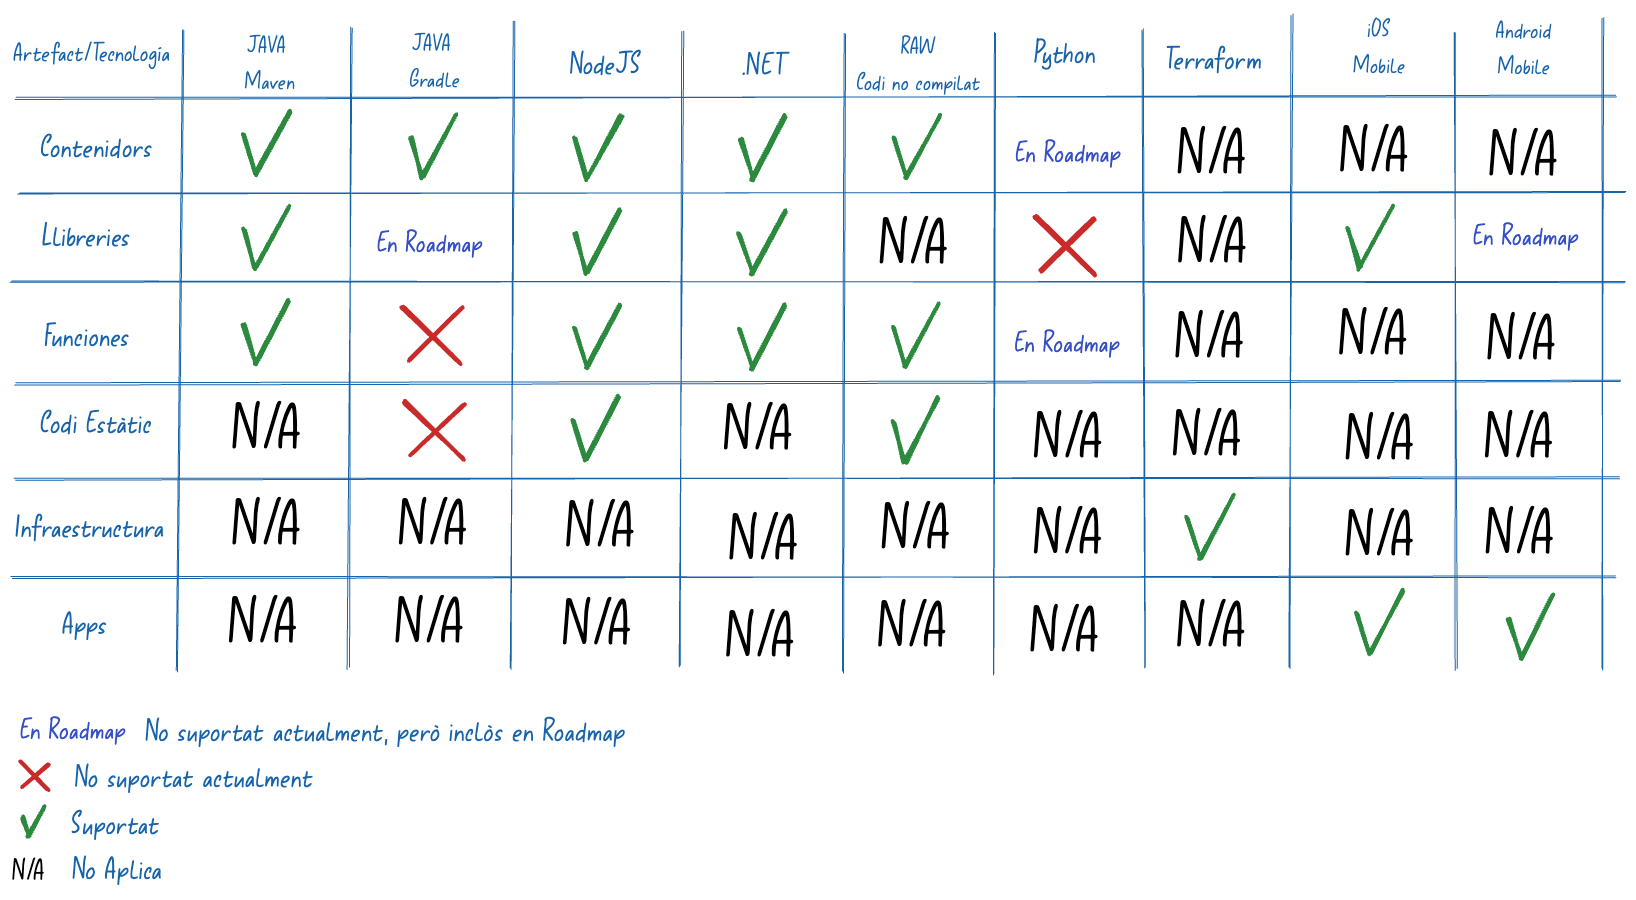
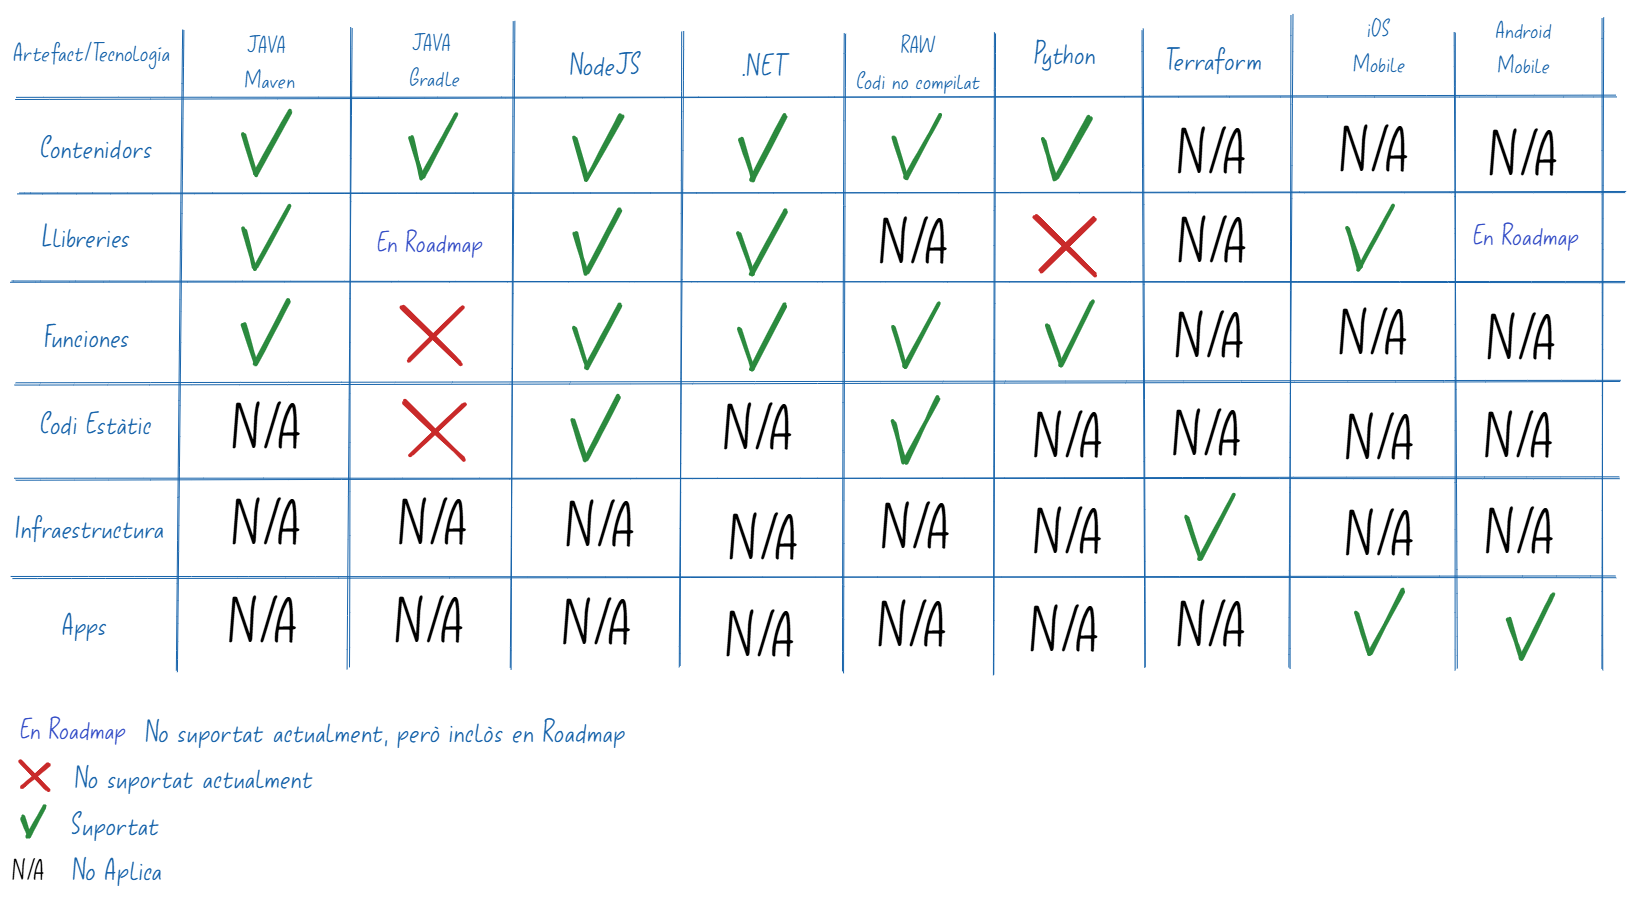
Python documentació

diff --git a/content/plataformes/ghec/workflows/gh-configuracio-workflows.md b/content/plataformes/ghec/workflows/gh-configuracio-workflows.md
@@ -104,6 +104,8 @@ aliases = [
   - `java`
   - `nodejs`
   - `dotnet` **IMPORTANT .Net Framework no està suportat**
+  - `python`
+  - `java-gradle`
 - **project_name**: (opcional) Nom del projecte, especificar només si no hi ha compilació en el projecte.
 - **cloud**: (obligatori) Entorn al núvol. Valors possibles:
   - `aws` (default)
@@ -170,6 +172,8 @@ aliases = [
   - `java`
   - `nodejs`
   - `dotnet` **IMPORTANT .Net Framework no està suportat**
+  - `python`
+  - `java-gradle`
 - **docker_build_context**: (opcional) Context de construcció de Docker. Per defecte és `"."` (l'arrel). Valor per defecte: `"."`
 - **project_name**: (opcional) Nom del projecte, especificar només si no hi ha compilació en el projecte.  En el cas de projectes amb tecnologia .NET i que en el repositori de projecte existeixin mes de dos .csproj, aquesta propietat project_name és obligatòria.
 - **java_version**: (opcional) Versió de Java. Definir només si el projecte es basa en tecnologia Java.
@@ -179,6 +183,8 @@ aliases = [
 - **node_version**: (opcional) Versió de Node. Definir només si el projecte es basa en tecnologia Node.
 - **dotnet_version**: (opcional) Versió de .Net. Definir només si el projecte es basa en tecnologia .Net.
 - **install_build_command**: (opcional) Comanda personalitzada per construir i empaquetar el projecte. El valor per defecte per a nodejs és `"npm ci && npm run build"`, i per a java maven `"mvn package -Dmaven.test.skip=true"`
+- **python_version**: (opcional) Versió de python. Definir només si el projecte es basa en tecnologia python.
+- **gradle_version**: (opcional) Versió de gradle. Definir només si el projecte es basa en tecnologia python.
 - **sonar_exclusions**: (opcional) Exclusió de Sonar. Exemples:
   - `node_modules/**`
   - `test/**`
@@ -200,7 +206,9 @@ uses: ctti-arq/reusable-workflows/.github/workflows/container-ci-on-commit-devel
   - `java`
   - `nodejs`
   - `dotnet` **IMPORTANT .Net Framework no està suportat**
-- **project_name**: (opcional) Nom del projecte, especificar només si no hi ha compilació en el projecte. En el cas de projectes amb tecnologia .NET i que en el repositori de projecte existeixin mes de dos .csproj, aquesta propietat project_name és obligatòria.
+  - `python`
+  - `java-gradle`
+- **project_name**: (opcional) Nom del projecte, especificar només si no hi ha compilació en el projecte. En el cas de projectes amb tecnologia .NET i que en el repositori de projectes hi hagi més de dos .csproj o projectes que no se li especifiqui la tecnologia, aquesta propietat project_name és obligatòria.
 
 **Exemple de crida al workflow:**
 ```yaml
@@ -217,12 +225,16 @@ uses: ctti-arq/reusable-workflows/.github/workflows/container-ci-on-commit-devel
   - `nodejs`
   - `raw`
   - `dotnet` **IMPORTANT .Net Framework no està suportat**
+  - `python`
+  - `java-gradle`
 - **java_version**: (opcional) Versió de Java. Definir només si el projecte es basa en tecnologia Java.
 - **java_distribution**: (opcional) Distribució de Java. Definir només si el projecte es basa en tecnologia Java.
 - **maven_version**: (opcional) Versió de Maven. Definir només si el projecte es basa en tecnologia Java.
 - **sonar_exclusions**: (opcional) Exclusió de Sonar, pot estar buit.
 - **node_version**: (opcional) Versió de Node. Definir només si el projecte es basa en tecnologia Node.
 - **dotnet_version**: (opcional) Versió de .Net. Definir només si el projecte es basa en tecnologia .Net.
+- **python_version**: (opcional) Versió de pythont. Definir només si el projecte es basa en tecnologia python.
+- **gradle_version**: (opcional) Versió de gradle. Definir només si el projecte es basa en tecnologia python.
 - **sonar_exclusions**: (opcional) Exclusió de Sonar. Exemples:
   - `node_modules/**`
   - `test/**`
@@ -233,6 +245,14 @@ uses: ctti-arq/reusable-workflows/.github/workflows/container-ci-on-commit-devel
 - **dependabot**: (opcional) Activació de Dependabot.
   Valor per defecte: true.
 - **project_name**: (opcional) Nom del projecte, especificar només si no hi ha compilació en el projecte. En el cas de projectes amb tecnologia .NET i que en el repositori de projecte existeixin mes de dos .csproj, aquesta propietat project_name és obligatòria.
+- **install_build_command**: (opcional) Comanda personalitzada per construir i empaquetar el projecte. El valor per defecte per a nodejs és `"npm ci && npm run build"`, per a java maven `"mvn package -Dmaven.test.skip=true"`, per a java gradle `"gradle clean build"`, per a dotnet `"dotnet restore $PROJECT_PATH && dotnet build $PROJECT_PATH --configuration Release && dotnet publish $PROJECT_PATH --configuration Release --output ./out"`, i per a python `"pip install -r requirements.txt && python setup.py sdist bdist_wheel"`. Si no es proporciona cap comanda personalitzada, es farà servir la comanda per defecte segons la tecnologia especificada.
+- **custom_test_command**:(opcional) Comanda personalitzada per realitzar les proves al projecte. Els valors per defecte són els següents segons la tecnologia:
+
+  - **java/java-maven**: `"mvn surefire:test"`
+  - **java-gradle**: `"gradle test"`
+  - **nodejs**: `"npm test"`
+  - **dotnet**: `"dotnet test $TEST_PROJECT_PATH --configuration Release"`
+  - **python**: `"pytest tests/"`
 
 **Exemple de crida al workflow:**
 ```yaml
@@ -252,6 +272,7 @@ uses: ctti-arq/reusable-workflows/.github/workflows/container-ci-on-commit-devel
   - `java`
   - `nodejs`
   - `dotnet` **IMPORTANT .Net Framework no està suportat**
+  - `python`
 - **project_name**: (opcional) Nom del projecte, especificar només si no hi ha compilació en el projecte.
 - **cloud**: Entorn al núvol. Valors possibles:
   - `aws` (default)
@@ -313,6 +334,7 @@ uses: ctti-arq/reusable-workflows/.github/workflows/container-ci-on-commit-devel
   - `java`
   - `nodejs`
   - `dotnet` **IMPORTANT .Net Framework no està suportat**
+  - `python`
 - **project_name**: (opcional) Nom del projecte, especificar només si no hi ha compilació en el projecte. En el cas de projectes amb tecnologia .NET i que en el repositori de projecte existeixin mes de dos .csproj, aquesta propietat project_name és obligatòria.
 - **java_version**: (opcional) Versió de Java. Definir només si el projecte es basa en tecnologia Java.
 - **java_distribution**: (opcional) Distribució de Java. Definir només si el projecte es basa en tecnologia Java.
@@ -320,7 +342,8 @@ uses: ctti-arq/reusable-workflows/.github/workflows/container-ci-on-commit-devel
 - **sonar_exclusions**: (opcional) Exclusió de Sonar, pot estar buit.
 - **node_version**: (opcional) Versió de Node. Definir només si el projecte es basa en tecnologia Node.
 - **dotnet_version**: (opcional) Versió de .Net. Definir només si el projecte es basa en tecnologia .Net.
-- **install_build_command**: (opcional) Comanda personalitzada per construir i empaquetar el projecte. El valor per defecte per a nodejs és `"npm ci && npm run build"`, i per a java maven `"mvn package -Dmaven.test.skip=true"`
+- **python_version**: (opcional) Versió de pythont. Definir només si el projecte es basa en tecnologia python.
+- **install_build_command**: (opcional) Comanda personalitzada per construir i empaquetar el projecte. El valor per defecte per a nodejs és `"npm ci && npm run build"`, per a java maven `"mvn package -Dmaven.test.skip=true"`, per a java gradle `"gradle clean build"`, per a dotnet `"dotnet restore $PROJECT_PATH && dotnet build $PROJECT_PATH --configuration Release && dotnet publish $PROJECT_PATH --configuration Release --output ./out"`, i per a python `"pip install -r requirements.txt && python setup.py sdist bdist_wheel"`. Si no es proporciona cap comanda personalitzada, es farà servir la comanda per defecte segons la tecnologia especificada.
 - **sonar_exclusions**: (opcional) Exclusió de Sonar. Exemples:
   - `node_modules/**`
   - `test/**`
@@ -342,12 +365,14 @@ uses: ctti-arq/reusable-workflows/.github/workflows/container-ci-on-commit-devel
   - `java`
   - `nodejs`
   - `dotnet` **IMPORTANT .Net Framework no està suportat**
+  - `python`
 - **java_version**: (opcional) Versió de Java. Definir només si el projecte es basa en tecnologia Java.
 - **java_distribution**: (opcional) Distribució de Java. Definir només si el projecte es basa en tecnologia Java.
 - **maven_version**: (opcional) Versió de Maven. Definir només si el projecte es basa en tecnologia Java.
 - **sonar_exclusions**: (opcional) Exclusió de Sonar, pot estar buit.
 - **node_version**: (opcional) Versió de Node. Definir només si el projecte es basa en tecnologia Node.
 - **dotnet_version**: (opcional) Versió de .Net. Definir només si el projecte es basa en tecnologia .Net.
+- **python_version**: (opcional) Versió de pythont. Definir només si el projecte es basa en tecnologia python.
 - **sonar_exclusions**: (opcional) Exclusió de Sonar. Exemples:
   - `node_modules/**`
   - `test/**`
@@ -355,6 +380,13 @@ uses: ctti-arq/reusable-workflows/.github/workflows/container-ci-on-commit-devel
 - **sonarqube**: (opcional) Indica si s'ha d'integrar SonarQube en el procés d'integració contínua. Valor per defecte: true.
 - **dependabot**: (opcional) Permet activar o desactivar la funcionalitat de Dependabot en el workflow. Valor per defecte: true.
 - **project_name**: (opcional) Nom del projecte, especificar només si no hi ha compilació en el projecte. En el cas de projectes amb tecnologia .NET i que en el repositori de projecte existeixin mes de dos .csproj, aquesta propietat project_name és obligatòria.
+- **install_build_command**: (opcional) Comanda personalitzada per construir i empaquetar el projecte. El valor per defecte per a nodejs és `"npm ci"`, per a java `"mvn clean compile"`, per a dotnet `"dotnet restore $PROJECT_PATH && dotnet build $PROJECT_PATH --configuration Release"`, i per a python `" pip install -r requirements.txt"`. Si no es proporciona cap comanda personalitzada, es farà servir la comanda per defecte segons la tecnologia especificada.
+**custom_test_command**:(opcional) Comanda personalitzada per realitzar les proves al projecte. Els valors per defecte són els següents segons la tecnologia:
+
+  - **java/java-maven**: `"mvn surefire:test"`
+  - **nodejs**: `"npm test"`
+  - **dotnet**: `"dotnet test $TEST_PROJECT_PATH --configuration Release"`
+  - **python**: `"pytest tests/"`
 
 **Exemple de crida al workflow:**
 ```yaml
@@ -468,6 +500,10 @@ uses: ctti-arq/reusable-workflows/.github/workflows/container-ci-on-commit-devel
 - **sonarqube**: (opcional) Habilita la integració amb SonarQube. Valor per defecte: true.
 - **dependabot**: (opcional) Activa o desactiva l'ús de Dependabot
   Valor per defecte: true.
+- **install_build_command**: (opcional) Comanda personalitzada per construir i empaquetar el projecte. El valor per defecte per a nodejs és `"npm ci"`. Si no es proporciona cap comanda personalitzada, es farà servir la comanda per defecte segons la tecnologia especificada.
+- **custom_test_command**:(opcional) Comanda personalitzada per realitzar les proves al projecte. Els valors per defecte són els següents segons la tecnologia:
+
+  - **nodejs**: `"npm test"`
 
 **Exemple de crida al workflow:**
 ```yaml
@@ -487,12 +523,14 @@ uses: ctti-arq/reusable-workflows/.github/workflows/container-ci-on-commit-devel
   - `java`
   - `nodejs`
   - `dotnet` **IMPORTANT .Net Framework no està suportat**
+  - `java-gradle`
 - **java_version**: (opcional) Versió de Java. Definir només si el projecte es basa en tecnologia Java.
 - **java_distribution**: (opcional) Distribució de Java. Definir només si el projecte es basa en tecnologia Java.
 - **maven_version**: (opcional) Versió de Maven. Definir només si el projecte es basa en tecnologia Java.
 - **sonar_exclusions**: (opcional) Exclusió de Sonar, pot estar buit.
 - **node_version**: (opcional) Versió de Node. Definir només si el projecte es basa en tecnologia Node.
 - **dotnet_version**: (opcional) Versió de .Net. Definir només si el projecte es basa en tecnologia .Net.
+- **gradle_version**: (opcional) Versió de gradle. Definir només si el projecte es basa en tecnologia python.
 - **install_build_command**: (opcional) Comanda personalitzada per construir i empaquetar el projecte. El valor per defecte per a nodejs és `"npm ci && npm run build"`, i per a java maven `"mvn package -Dmaven.test.skip=true"`
 - **sonar_exclusions**: (opcional) Exclusió de Sonar. Exemples:
   - `node_modules/**`
@@ -518,12 +556,14 @@ uses: ctti-arq/reusable-workflows/.github/workflows/container-ci-on-commit-devel
   - `java`
   - `nodejs`
   - `dotnet` **IMPORTANT .Net Framework no està suportat**
+  - `java-gradle`
 - **java_version**: (opcional) Versió de Java. Definir només si el projecte es basa en tecnologia Java.
 - **java_distribution**: (opcional) Distribució de Java. Definir només si el projecte es basa en tecnologia Java.
 - **maven_version**: (opcional) Versió de Maven. Definir només si el projecte es basa en tecnologia Java.
 - **sonar_exclusions**: (opcional) Exclusió de Sonar, pot estar buit.
 - **node_version**: (opcional) Versió de Node. Definir només si el projecte es basa en tecnologia Node.
 - **dotnet_version**: (opcional) Versió de .Net. Definir només si el projecte es basa en tecnologia .Net.
+- **gradle_version**: (opcional) Versió de gradle. Definir només si el projecte es basa en tecnologia python.
 - **sonar_exclusions**: (opcional) Exclusió de Sonar. Exemples:
   - `node_modules/**`
   - `test/**`
@@ -531,6 +571,13 @@ uses: ctti-arq/reusable-workflows/.github/workflows/container-ci-on-commit-devel
 - **dependabot**: (opcional) Indica si s'ha de permetre l'ús de Dependabot. Valor per defecte: true.
 - **unit_test**: (opcional) Realització de proves unitàries. Valor per defecte: false.
 - **project_name**: (opcional) Nom del projecte, especificar només si no hi ha compilació en el projecte. En el cas de projectes amb tecnologia .NET i que en el repositori de projecte existeixin mes de dos .csproj, aquesta propietat project_name és obligatòria.
+- **install_build_command**: (opcional) Comanda personalitzada per construir i empaquetar el projecte. El valor per defecte per a nodejs és `"npm ci"`, per a java maven `"mvn clean compile"`, per a java gradle `"gradle clean build"`, per a dotnet `"dotnet build $PROJECT_PATH -c Release"`. Si no es proporciona cap comanda personalitzada, es farà servir la comanda per defecte segons la tecnologia especificada.
+- **custom_test_command**:(opcional) Comanda personalitzada per realitzar les proves al projecte. Els valors per defecte són els següents segons la tecnologia:
+
+  - **java/java-maven**: `"mvn surefire:test"`
+  - **java-gradle**: `"gradle test"`
+  - **nodejs**: `"npm test"`
+  - **dotnet**: `"dotnet test $TEST_PROJECT_PATH --configuration Release"`
 
 **Exemple de crida al workflow:**
 ```yaml

diff --git a/content/plataformes/ghec/gh-capacitat-tecnologiques.md b/content/plataformes/ghec/gh-capacitat-tecnologiques.md
@@ -1,13 +1,14 @@
 
 +++
 date         = "2024-11-20"
-title        = "Tecnologies suportades"
+title        = "Tecnologies suportades i Requisits"
 description  = "Capacitats tecnològiques de la plataforma GitHub Enterprise Cloud (GHEC)"
 weight      = "4"
 sections    = ["GHEC"]
 aliases = [
     "/drafts/ghec/gh-capacitat-tecnologiques",
-    "/ghec/gh-capacitat-tecnologiques"
+    "/ghec/gh-capacitat-tecnologiques",
+    "/plataformes/ghec/gh-capacitat-tecnologiques"
 ]
 +++
 
@@ -72,4 +73,96 @@ Les tecnlogies certificades actualment són les següents:
 
 Més informació sobre desplegaments estesos : [Desplegaments Estesos](../gh-desplegaments-estesos/)
 
+## Requisits
 
+Addicionalment, dins la política de versions implantada, es detallen els requisits necessaris de configuració, depenent de la tecnologia.
+Respecte al versionat de l' artefacte, el nom del lliurable i la seva version s' obté automàticament dels fitxers de configuració del projecte.  Aquest dependrà del tipus de tecnologia.
+
+
+### JAVA (Maven)
+
+* **Versionat**
+   * Fitxer : pom.xml
+   * Nom Lliurable : Tag artifactid
+   * Versió Lliurable : Tag version
+
+* **Requisists**
+   Per a projectes Maven cal definir en el `pom.xml` la següent dependència per fer l'escaneig amb SonarQube:
+   ```
+   <plugin>
+    <groupId>org.sonarsource.scanner.maven</groupId>
+    <artifactId>sonar-maven-plugin</artifactId>
+    <version>3.4.0.905</version>
+    </plugin>
+   ```
+    
+### JAVA (Gradle)
+* **Versionat**
+   * Fitxer / Nom Lliurable : settings.gradle / Camp -  rootProject.name 
+   * Fitxer / Versió Lliurable :  build.gradle / Camp -  version i Camp -  group
+
+* **Requisits**
+   Per a projectes Maven cal definir en el `build.gradle` la següent dependència per fer l'escaneig amb SonarQube:
+   ```
+   plugins {
+    id 'org.sonarqube' version '5.1.0.4882'
+   }
+   ```
+   I per publicar una biblioteca:
+   ```
+   plugins {
+    id 'maven-publish'
+   }
+   ```
+    
+### NODE
+* **Versionat**
+   * Fitxer : package.json
+   * Nom Lliurable :  name
+   * Versió Lliurable : version
+
+### .NET
+* **Versionat**
+En aquest cas hi ha dues casuistiques :        
+       
+   * Nom Lliurable :
+        1. Si només hi ha un unic projecte, només hi ha un **.csproj** i s'obtindra del camp **name** d'aquest fitxer.
+        2. Si tenim en el repo més d'un projecte, hi ha diferents .csproj, s'obté de la variable **Project_Name** el valor del qual s'introdueix en el setup del projecte.
+
+
+   * Versió Lliurable : 
+        1. Si només hi ha un unic projecte, només hi ha un **.csproj** i s'obtindra del camp **version** d'aquest fitxer 
+        2. Si tenim en el repo més d'un projecte, hi ha diferents .csproj, després hi hauria d'haver un fitxer centralitzat de versions anomenat **Directory.Build.props** i d'aquí s'obtindre del camp **VERSION**.
+
+* **Requisits**
+    Per a projectes on la tecnologia sigui dotnet és necessària l'existència de l'arxiu `*.csproj` a l'arrel. Si existeixen dos arxius `*.csproj` serà obligatori especificar el `Project_Name`.
+
+### APIM
+* **Versionat**
+   * Fitxer : product.yaml
+   * Nom Lliurable : title
+   * Versió Lliurable : version
+
+* **Requisits**
+   Els fitxers de producte i d'APIs han d'estar a l'arrel del repositori i no poden incloure la versió en el nom.
+
+### PYTHON
+* **Versionat** 
+   * Fitxer : setup.py
+   * Nom Lliurable : name
+   * Versió Lliurable : version
+
+* **Requisits**
+   Per a projectes Python és necessari que a l'arrel del repositori existeixin els fitxers de configuració `setup.py` i `requirements.txt`.
+
+### Android (Gradle):
+* **Versionat**
+   * Fitxer / Nom Lliurable : app/build.gradle / Task - packageName
+   * Fitxer / Versió Lliurable : app/build.gradle / Task - versionName
+   * Fitxer / Build Lliurable : app/build.gradle / Task - versionCode
+
+### iOS
+
+   * Fitxer / Nom Lliurable : Build Settings / Camp - PRODUCT_BUNDLE_IDENTIFIER
+   * Fitxer / Versió Lliurable : Build Settings / Camp - MARKETING_VERSION
+   * Fitxer / Build Lliurable : Build Settings / Camp - CURRENT_PROJECT_VERSION

diff --git a/content/plataformes/ghec/gh-adopcio-model-ghec.md b/content/plataformes/ghec/gh-adopcio-model-ghec.md
@@ -82,8 +82,11 @@ El procés d'integració actualment és el següent :
       | NomTecComponent4     | backend             | function  | lambda | java       | 17     |
       | NomTecComponent5     | backend             | container | ecs    | dotnet     | 8      |
       | NomTecComponent6     | apim                | apim      | N/A    | apim       | N/A    |
-      | NomTecComponent7     | mobile              | app       | N/A    | ios        | N/A    |
-      | NomTecComponent8     | mobile              | app       | N/A    | android    | N/A    |
+      | NomTecComponent7     | backend             | container | ecs    | python     | 3.10   |
+      | NomTecComponent8     | backend             | function  | lambda | python     | 3.10   |
+      | NomTecComponent9     | library             | library   | N/A    | java-gradle| 8.10   |
+      | NomTecComponent10    | mobile              | app       | N/A    | ios        | N/A    |
+      | NomTecComponent11    | mobile              | app       | N/A    | android    | N/A    |
 
       on els camps següents poden tenir les següents opcions : 
       + Tipus de repositori:
@@ -122,10 +125,12 @@ El procés d'integració actualment és el següent :
         + ablobstorage : Azure Storage
 
       + Tecnologia : 
-        + java
+        + java/maven
+      	+ java-gradle
         + nodejs
         + dotnet. **IMPORTANT .Net Framework no està suportat**
         + apim
+        + python
         + ios
         + android
         

diff --git a/content/plataformes/ghec/modelTreball/model-gitflow-gitops.md b/content/plataformes/ghec/modelTreball/model-gitflow-gitops.md
@@ -135,7 +135,7 @@ Addicionalment, dins la política de versions implantada, el nom del lliurable i
     
 * **JAVA (Gradle)**:
    * Fitxer / Nom Lliurable : settings.gradle / Camp -  rootProject.name 
-   * Fitxer / Versió Lliurable :  build.gradle / Camp -  version
+   * Fitxer / Versió Lliurable :  build.gradle / Camp -  version i Camp -  group
     
 * **NODE**:
    * Fitxer : package.json
@@ -152,6 +152,16 @@ Addicionalment, dins la política de versions implantada, el nom del lliurable i
    * Versió Lliurable : 
         1. Si només hi ha un unic projecte, només hi ha un **.csproj** i s'obtindra del camp **version** d'aquest fitxer 
         2. Si tenim en el repo més d'un projecte, hi ha diferents .csproj, després hi hauria d'haver un fitxer centralitzat de versions anomenat **Directory.Build.props** i d'aquí s'obtindre del camp **VERSION**.
+
+* **APIM**
+   * Fitxer : product.yaml
+   * Nom Lliurable : title
+   * Versió Lliurable : version
+
+* **PYTHON**
+   * Fitxer : setup.py
+   * Nom Lliurable : name
+   * Versió Lliurable : version
   
 * **Android (Gradle)**:
    * Fitxer / Nom Lliurable : app/build.gradle / Task -  packageName 
